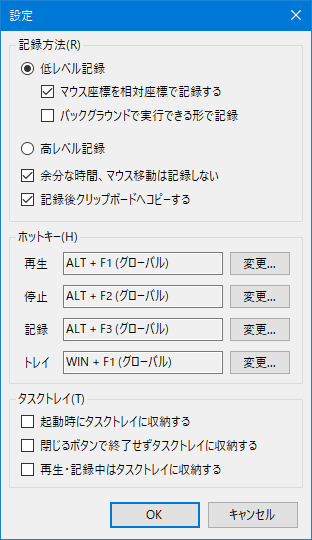
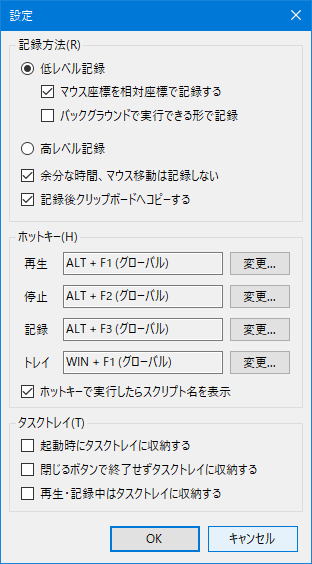
ホットキーで実行したとき、カーソルの近くにスクリプト名を少しの間表示する
起動に時間がかかるマシンでも、押したのが効いたかすぐ分かるようにする。
実行しなかったときは理由 (再生中など) を表示する。設定で切り替えられ、既定は ON。

diff --git a/src/CsWSC.UI/MainForm.cs b/src/CsWSC.UI/MainForm.cs
@@ -288,15 +288,27 @@ public partial class MainForm : Form {
 		if( slot.SeparateProcess ) {
 			var key = Path.GetFullPath( path );
 			if( fromHotkey && _launcherProcesses.TryGetValue( key, out var running ) ) {
-				if( !running.HasExited ) return; // ホットキーでは多重起動しない
+				if( !running.HasExited ) { // ホットキーでは多重起動しない
+					if( _settings.HotkeyLaunchNotice ) LaunchNotice.Skipped( path, "実行中" );
+					return;
+				}
 				running.Dispose();
 				_launcherProcesses.Remove( key );
 			}
+			if( fromHotkey ) LaunchTrace.Begin( "ホットキー受信" );
+			// 遅いマシンでは起動に時間がかかるので、先に表示して押したのが効いたと分かるようにする
+			if( fromHotkey && _settings.HotkeyLaunchNotice ) {
+				LaunchNotice.Started( path );
+				LaunchTrace.Mark( "通知表示" );
+			}
 			// CsWSC.exe スクリプト で起動する (メイン画面の再生とは独立して動き、終わったら終了する)
 			try {
-				var process = System.Diagnostics.Process.Start( new System.Diagnostics.ProcessStartInfo( Environment.ProcessPath!, [path] ) {
+				var psi = new System.Diagnostics.ProcessStartInfo( Environment.ProcessPath!, [path] ) {
 					WorkingDirectory = Path.GetDirectoryName( path )!,
-				} );
+				};
+				LaunchTrace.Mark( "起動要求" );
+				if( LaunchTrace.Take() is { } trace ) psi.Environment[LaunchTrace.EnvironmentVariable] = trace;
+				var process = System.Diagnostics.Process.Start( psi );
 				if( fromHotkey && process != null ) _launcherProcesses[key] = process;
 				else process?.Dispose();
 			} catch( Exception ex ) {
@@ -304,8 +316,17 @@ public partial class MainForm : Form {
 			}
 			return;
 		}
-		if( _cts != null || _recorder.IsRecording ) return;
-		SetScript( path );
+		if( _cts != null || _recorder.IsRecording ) {
+			if( fromHotkey && _settings.HotkeyLaunchNotice ) LaunchNotice.Skipped( path, _recorder.IsRecording ? "記録中" : "再生中" );
+			return;
+		}
+		if( fromHotkey ) LaunchTrace.Begin( "ホットキー受信" );
+		if( fromHotkey && _settings.HotkeyLaunchNotice ) {
+			LaunchNotice.Started( path );
+			LaunchTrace.Mark( "通知表示" );
+		}
+		SetScript( path, playNow: true );
+		LaunchTrace.Mark( "スクリプト設定" );
 		await PlayAsync();
 	}
 
@@ -329,7 +350,9 @@ public partial class MainForm : Form {
 	// ---- スクリプト ----
 
 	/// <summary>再生対象のスクリプトを設定します (エディタで保存したときにも呼ばれる)。</summary>
-	public void SetScript( string? path ) {
+	/// <param name="playNow">すぐ再生するかどうかです。true なら再生を早く始められるよう、事前コンパイルをせず、設定の保存を後回しにします
+	/// (事前コンパイルは待機中の子プロセスを使ってしまい、再生が起動直後の子プロセスになって遅くなるため)。</param>
+	public void SetScript( string? path, bool playNow = false ) {
 		if( path != null && !File.Exists( path ) ) path = null;
 		if( path != null && ScriptLibraryResolver.IsLibrary( path ) ) {
 			MessageBox.Show( this, ScriptRunner.LibraryNotRunnableMessage( path ), AppName, MessageBoxButtons.OK, MessageBoxIcon.Warning );
@@ -339,9 +362,11 @@ public partial class MainForm : Form {
 		if( path != null ) {
 			_recordedSource = null;
 			_settings.AddRecent( path );
-			_settings.Save();
+			// 後回しにすると、再生の要求を子プロセスに送ってから (PlayAsync が最初に待つところで) UI スレッドで保存される
+			if( playNow ) BeginInvoke( _settings.Save );
+			else _settings.Save();
 			// 再生ボタンを押す前にコンパイルしてキャッシュを作っておく (再生中は邪魔しないよう行わない)
-			if( _cts == null ) {
+			if( !playNow && _cts == null ) {
 				try { _ = ScriptProcess.PrecompileAsync( File.ReadAllText( path ), path ); } catch( Exception ) { }
 			}
 		}
@@ -761,7 +786,12 @@ public partial class MainForm : Form {
 				else _cts?.Cancel();
 				break;
 			case HotkeyPlay:
-				if( _cts == null && !_recorder.IsRecording ) _ = PlayAsync();
+				if( _cts != null || _recorder.IsRecording ) {
+					if( _settings.HotkeyLaunchNotice ) LaunchNotice.Skipped( _scriptPath, _recorder.IsRecording ? "記録中" : "再生中" );
+				} else if( _scriptPath != null || _recordedSource != null ) {
+					if( _settings.HotkeyLaunchNotice ) LaunchNotice.Started( _recordedSource != null ? null : _scriptPath );
+					_ = PlayAsync();
+				}
 				break;
 			case HotkeyRecord:
 				if( _cts == null ) RecordButton_Click( this, EventArgs.Empty );

diff --git a/src/CsWSC.UI/LaunchNotice.cs b/src/CsWSC.UI/LaunchNotice.cs
@@ -1,0 +1,85 @@
+namespace CsWSC.UI;
+
+/// <summary>
+/// ホットキーでスクリプトを実行したときに、マウスカーソルの近くへ短い間だけ出す表示です (押したのが効いたか分かるように)。
+/// 操作中の窓からフォーカスは奪わず、クリックは下の窓へ素通りさせます。新しく出すと前の表示は消えます。
+/// </summary>
+internal sealed class LaunchNotice : Form {
+	private const int WS_EX_TOPMOST = 0x8, WS_EX_TRANSPARENT = 0x20, WS_EX_TOOLWINDOW = 0x80, WS_EX_LAYERED = 0x80000, WS_EX_NOACTIVATE = 0x08000000;
+	private const uint LWA_ALPHA = 0x2;
+	private const int DisplayMilliseconds = 1200;
+
+	[System.Runtime.InteropServices.DllImport( "user32.dll" )]
+	private static extern bool SetLayeredWindowAttributes( IntPtr hwnd, uint crKey, byte bAlpha, uint dwFlags );
+
+	private static LaunchNotice? _current;
+	private readonly System.Windows.Forms.Timer _closeTimer = new() { Interval = DisplayMilliseconds };
+
+	private LaunchNotice( string message, bool started ) {
+		FormBorderStyle = FormBorderStyle.None;
+		ShowInTaskbar = false;
+		StartPosition = FormStartPosition.Manual;
+		AutoSize = true;
+		AutoSizeMode = AutoSizeMode.GrowAndShrink;
+		Padding = new Padding( 1 );
+		Font = new Font( "Yu Gothic UI", 9F );
+		BackColor = started ? Color.FromArgb( 0xE6, 0xF4, 0xEA ) : Color.FromArgb( 0xFD, 0xEC, 0xEA );
+		Controls.Add( new Label {
+			AutoSize = true,
+			Padding = new Padding( 8, 5, 8, 5 ),
+			Text = message,
+			UseMnemonic = false,
+		} );
+		_closeTimer.Tick += ( _, _ ) => Close();
+	}
+
+	protected override bool ShowWithoutActivation => true;
+
+	protected override CreateParams CreateParams {
+		get {
+			var cp = base.CreateParams;
+			// レイヤードウィンドウに WS_EX_TRANSPARENT を付けるとマウス入力が下の窓へ届く
+			cp.ExStyle |= WS_EX_TOPMOST | WS_EX_TRANSPARENT | WS_EX_TOOLWINDOW | WS_EX_LAYERED | WS_EX_NOACTIVATE;
+			return cp;
+		}
+	}
+
+	protected override void OnHandleCreated( EventArgs e ) {
+		base.OnHandleCreated( e );
+		// レイヤードウィンドウは属性を設定しないと描画されないので、不透明で設定する
+		SetLayeredWindowAttributes( Handle, 0, 255, LWA_ALPHA );
+	}
+
+	protected override void OnPaint( PaintEventArgs e ) {
+		base.OnPaint( e );
+		ControlPaint.DrawBorder( e.Graphics, ClientRectangle, SystemColors.WindowFrame, ButtonBorderStyle.Solid );
+	}
+
+	protected override void OnFormClosed( FormClosedEventArgs e ) {
+		_closeTimer.Dispose();
+		if( _current == this ) _current = null;
+		base.OnFormClosed( e );
+	}
+
+	/// <summary>実行を始めたことを表示します (UI スレッドから呼ぶ)。</summary>
+	public static void Started( string? path ) => Show( $"▶ {Name( path )}", true );
+
+	/// <summary>実行しなかったことを理由とともに表示します (UI スレッドから呼ぶ)。</summary>
+	public static void Skipped( string? path, string reason ) => Show( $"× {Name( path )} ({reason})", false );
+
+	private static string Name( string? path ) => path == null ? "(記録)" : Path.GetFileName( path );
+
+	private static void Show( string message, bool started ) {
+		_current?.Close();
+		var notice = _current = new LaunchNotice( message, started );
+		// カーソルの右下に出し、画面からはみ出すなら内側へ寄せる
+		var cursor = Cursor.Position;
+		var area = Screen.FromPoint( cursor ).WorkingArea;
+		var size = notice.PreferredSize;
+		notice.Location = new Point(
+			Math.Max( area.Left, Math.Min( cursor.X + 16, area.Right - size.Width ) ),
+			Math.Max( area.Top, Math.Min( cursor.Y + 20, area.Bottom - size.Height ) ) );
+		notice.Show();
+		notice._closeTimer.Start();
+	}
+}

diff --git a/src/CsWSC.UI/SettingsForm.Designer.cs b/src/CsWSC.UI/SettingsForm.Designer.cs
@@ -50,6 +50,7 @@ partial class SettingsForm {
 		this.trayOnStartCheckBox = new CheckBox();
 		this.trayOnCloseCheckBox = new CheckBox();
 		this.trayWhileRunningCheckBox = new CheckBox();
+		this.launchNoticeCheckBox = new CheckBox();
 		this.recordGroupBox.SuspendLayout();
 		this.hotkeyGroupBox.SuspendLayout();
 		this.trayGroupBox.SuspendLayout();
@@ -147,9 +148,10 @@ partial class SettingsForm {
 		this.hotkeyGroupBox.Controls.Add( this.trayLabel );
 		this.hotkeyGroupBox.Controls.Add( this.trayHotkeyTextBox );
 		this.hotkeyGroupBox.Controls.Add( this.trayHotkeyButton );
+		this.hotkeyGroupBox.Controls.Add( this.launchNoticeCheckBox );
 		this.hotkeyGroupBox.Location = new Point( 8, 198 );
 		this.hotkeyGroupBox.Name = "hotkeyGroupBox";
-		this.hotkeyGroupBox.Size = new Size( 294, 156 );
+		this.hotkeyGroupBox.Size = new Size( 294, 180 );
 		this.hotkeyGroupBox.TabIndex = 1;
 		this.hotkeyGroupBox.TabStop = false;
 		this.hotkeyGroupBox.Text = "ホットキー(&H)";
@@ -261,10 +263,20 @@ partial class SettingsForm {
 		this.trayHotkeyButton.TabIndex = 16;
 		this.trayHotkeyButton.Text = "変更...";
 		this.trayHotkeyButton.UseVisualStyleBackColor = true;
+		//
+		// launchNoticeCheckBox
+		//
+		this.launchNoticeCheckBox.AutoSize = true;
+		this.launchNoticeCheckBox.Location = new Point( 12, 154 );
+		this.launchNoticeCheckBox.Name = "launchNoticeCheckBox";
+		this.launchNoticeCheckBox.Size = new Size( 220, 19 );
+		this.launchNoticeCheckBox.TabIndex = 17;
+		this.launchNoticeCheckBox.Text = "ホットキーで実行したらスクリプト名を表示";
+		this.launchNoticeCheckBox.UseVisualStyleBackColor = true;
 		// 
 		// okButton
 		// 
-		this.okButton.Location = new Point( 108, 470 );
+		this.okButton.Location = new Point( 108, 494 );
 		this.okButton.Name = "okButton";
 		this.okButton.Size = new Size( 92, 28 );
 		this.okButton.TabIndex = 3;
@@ -275,7 +287,7 @@ partial class SettingsForm {
 		// cancelButton
 		// 
 		this.cancelButton.DialogResult = DialogResult.Cancel;
-		this.cancelButton.Location = new Point( 206, 470 );
+		this.cancelButton.Location = new Point( 206, 494 );
 		this.cancelButton.Name = "cancelButton";
 		this.cancelButton.Size = new Size( 92, 28 );
 		this.cancelButton.TabIndex = 4;
@@ -287,7 +299,7 @@ partial class SettingsForm {
 		this.trayGroupBox.Controls.Add( this.trayOnStartCheckBox );
 		this.trayGroupBox.Controls.Add( this.trayOnCloseCheckBox );
 		this.trayGroupBox.Controls.Add( this.trayWhileRunningCheckBox );
-		this.trayGroupBox.Location = new Point( 8, 360 );
+		this.trayGroupBox.Location = new Point( 8, 384 );
 		this.trayGroupBox.Name = "trayGroupBox";
 		this.trayGroupBox.Size = new Size( 294, 98 );
 		this.trayGroupBox.TabIndex = 2;
@@ -330,7 +342,7 @@ partial class SettingsForm {
 		this.AutoScaleDimensions = new SizeF( 7F, 15F );
 		this.AutoScaleMode = AutoScaleMode.Font;
 		this.CancelButton = this.cancelButton;
-		this.ClientSize = new Size( 310, 508 );
+		this.ClientSize = new Size( 310, 532 );
 		this.Controls.Add( this.recordGroupBox );
 		this.Controls.Add( this.hotkeyGroupBox );
 		this.Controls.Add( this.trayGroupBox );
@@ -382,4 +394,5 @@ partial class SettingsForm {
 	private CheckBox trayOnStartCheckBox;
 	private CheckBox trayOnCloseCheckBox;
 	private CheckBox trayWhileRunningCheckBox;
+	private CheckBox launchNoticeCheckBox;
 }

diff --git a/src/CsWSC.UI/SettingsForm.cs b/src/CsWSC.UI/SettingsForm.cs
@@ -57,6 +57,7 @@ public partial class SettingsForm : Form {
 		trayOnStartCheckBox.Checked = s.TrayOnStart;
 		trayOnCloseCheckBox.Checked = s.TrayOnClose;
 		trayWhileRunningCheckBox.Checked = s.TrayWhileRunning;
+		launchNoticeCheckBox.Checked = s.HotkeyLaunchNotice;
 
 		var hotkeys = new[] { s.PlayHotkey, s.StopHotkey, s.RecordHotkey, s.TrayHotkey };
 		foreach( var (row, hotkey) in HotkeyRows.Zip( hotkeys ) ) SetHotkey( row, hotkey );
@@ -89,6 +90,7 @@ public partial class SettingsForm : Form {
 			_settings.TrayOnStart = trayOnStartCheckBox.Checked;
 			_settings.TrayOnClose = trayOnCloseCheckBox.Checked;
 			_settings.TrayWhileRunning = trayWhileRunningCheckBox.Checked;
+			_settings.HotkeyLaunchNotice = launchNoticeCheckBox.Checked;
 			(_settings.PlayHotkey, _settings.StopHotkey, _settings.RecordHotkey, _settings.TrayHotkey) =
 				(hotkeys[0], hotkeys[1], hotkeys[2], hotkeys[3]);
 			_settings.Save();

diff --git a/src/CsWSC.UI/AppSettings.cs b/src/CsWSC.UI/AppSettings.cs
@@ -54,6 +54,9 @@ public sealed class AppSettings {
 	public Hotkey RecordHotkey { get; set; } = new( "ALT", "F3" );
 	public Hotkey TrayHotkey { get; set; } = new( "WIN", "F1" );
 
+	/// <summary>ホットキーで実行したとき、マウスカーソルの近くに実行したスクリプト名を少しの間表示します。</summary>
+	public bool HotkeyLaunchNotice { get; set; } = true;
+
 	// ---- ランチャー ----
 
 	/// <summary>

diff --git a/README.md b/README.md
@@ -41,7 +41,7 @@ UWSC と同じく 0〜9・A〜Z の 36 枠があります。
 
 ### 設定ダイアログ
 
-<img src="docs/images/settings.png" alt="設定ダイアログ" height="400">
+<img src="docs/images/settings.png" alt="設定ダイアログ" height="418">
 
 - **記録方法**: 低レベル記録 (相対座標 / バックグラウンド実行形式) / 高レベル記録 / 余分な時間・マウス移動を省く / 記録後クリップボードへコピー ([詳細](docs/Recording.md))
 - **ホットキー**: 再生 / 停止 / 記録 / トレイ格納
@@ -54,6 +54,9 @@ UWSC と同じく 0〜9・A〜Z の 36 枠があります。
   管理者権限で動いているアプリが前面にあるときは反応しません。  
   修飾キーなしの文字・数字・スペースは登録できません。
   - **なし**: ホットキーを使いません。
+  - **ホットキーで実行したらスクリプト名を表示** (既定 ON): 再生・ランチャーのホットキーで実行すると、マウスカーソルの右下に「▶ スクリプト名」を少しの間表示します。  
+  再生中などで実行しなかったときは「× スクリプト名 (再生中)」のように理由を表示します。  
+  起動に時間がかかるマシンでも、押したのが効いたかすぐ分かります。
 - **タスクトレイ**: 起動時に収納 / 閉じるボタンで終了せず収納 / 再生・記録中は収納
 - **Pause キー**は常に停止として使える (非常停止用)
 - 設定は `%AppData%\CsWSC\settings.json` に保存
